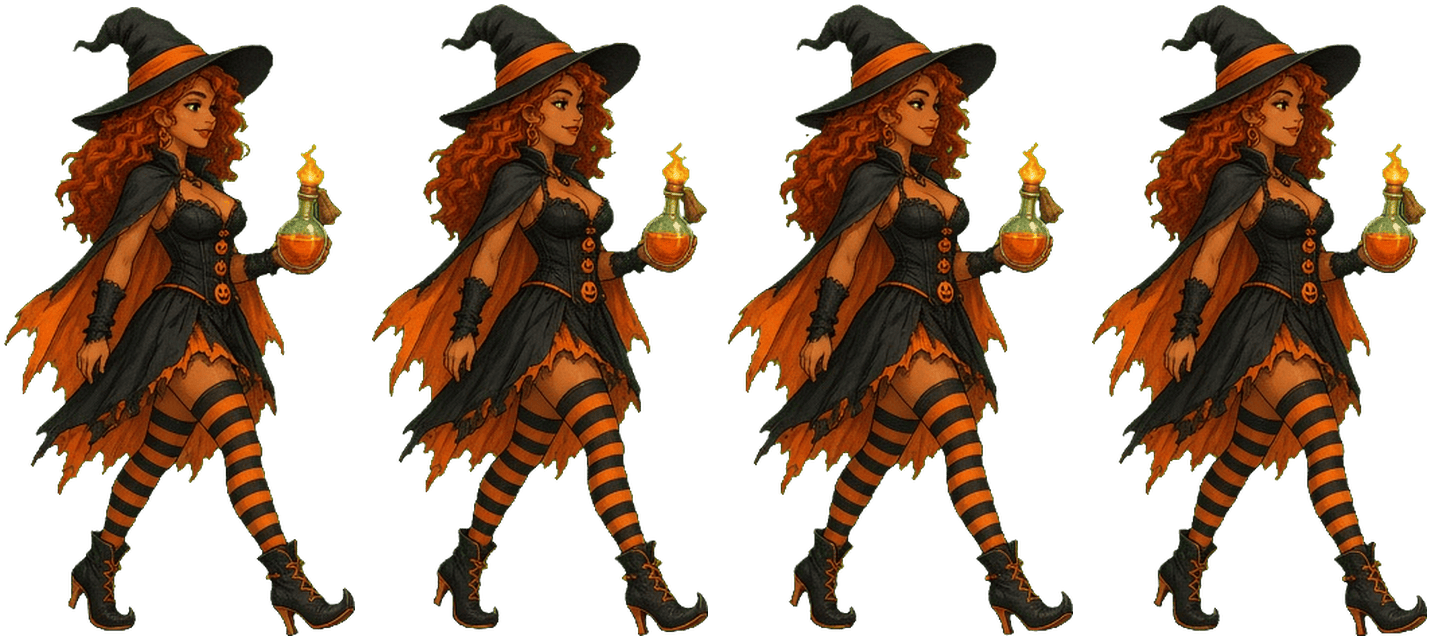
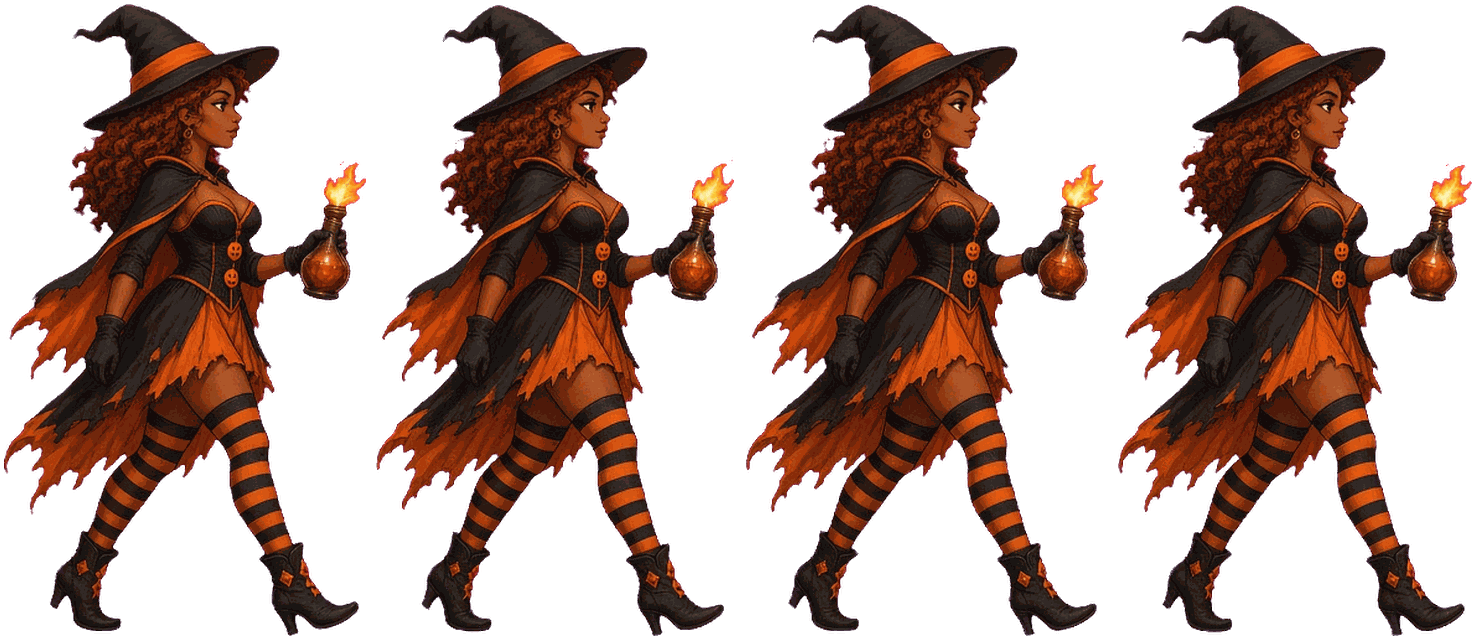
Repaint Lila and Wren spooky walk cycles so head and body face the same way; v29

diff --git a/index.html b/index.html
@@ -13,7 +13,7 @@
   <link rel="manifest" href="manifest.webmanifest">
   <link rel="icon" type="image/png" sizes="192x192" href="assets/icons/icon-192.png">
   <link rel="apple-touch-icon" href="assets/icons/apple-touch-icon.png">
-  <link rel="stylesheet" href="css/style.css?v=28">
+  <link rel="stylesheet" href="css/style.css?v=29">
 </head>
 <body>
   <div id="app">
@@ -229,7 +229,7 @@
       </div>
     </div>
   </div>
-  <script src="js/game.js?v=28"></script>
-  <script src="js/pwa.js?v=28"></script>
+  <script src="js/game.js?v=29"></script>
+  <script src="js/pwa.js?v=29"></script>
 </body>
 </html>

diff --git a/sw.js b/sw.js
@@ -7,7 +7,7 @@
  *   instead the full file is fetched once in the background and later Range requests
  *   are answered by slicing that cached copy.
  */
-const VERSION = "28";
+const VERSION = "29";
 const SHELL = "lastgate-shell-v" + VERSION;
 const ASSETS = "lastgate-assets-v" + VERSION;
 const MUSIC = "lastgate-music-1"; // music files rarely change; kept across versions
